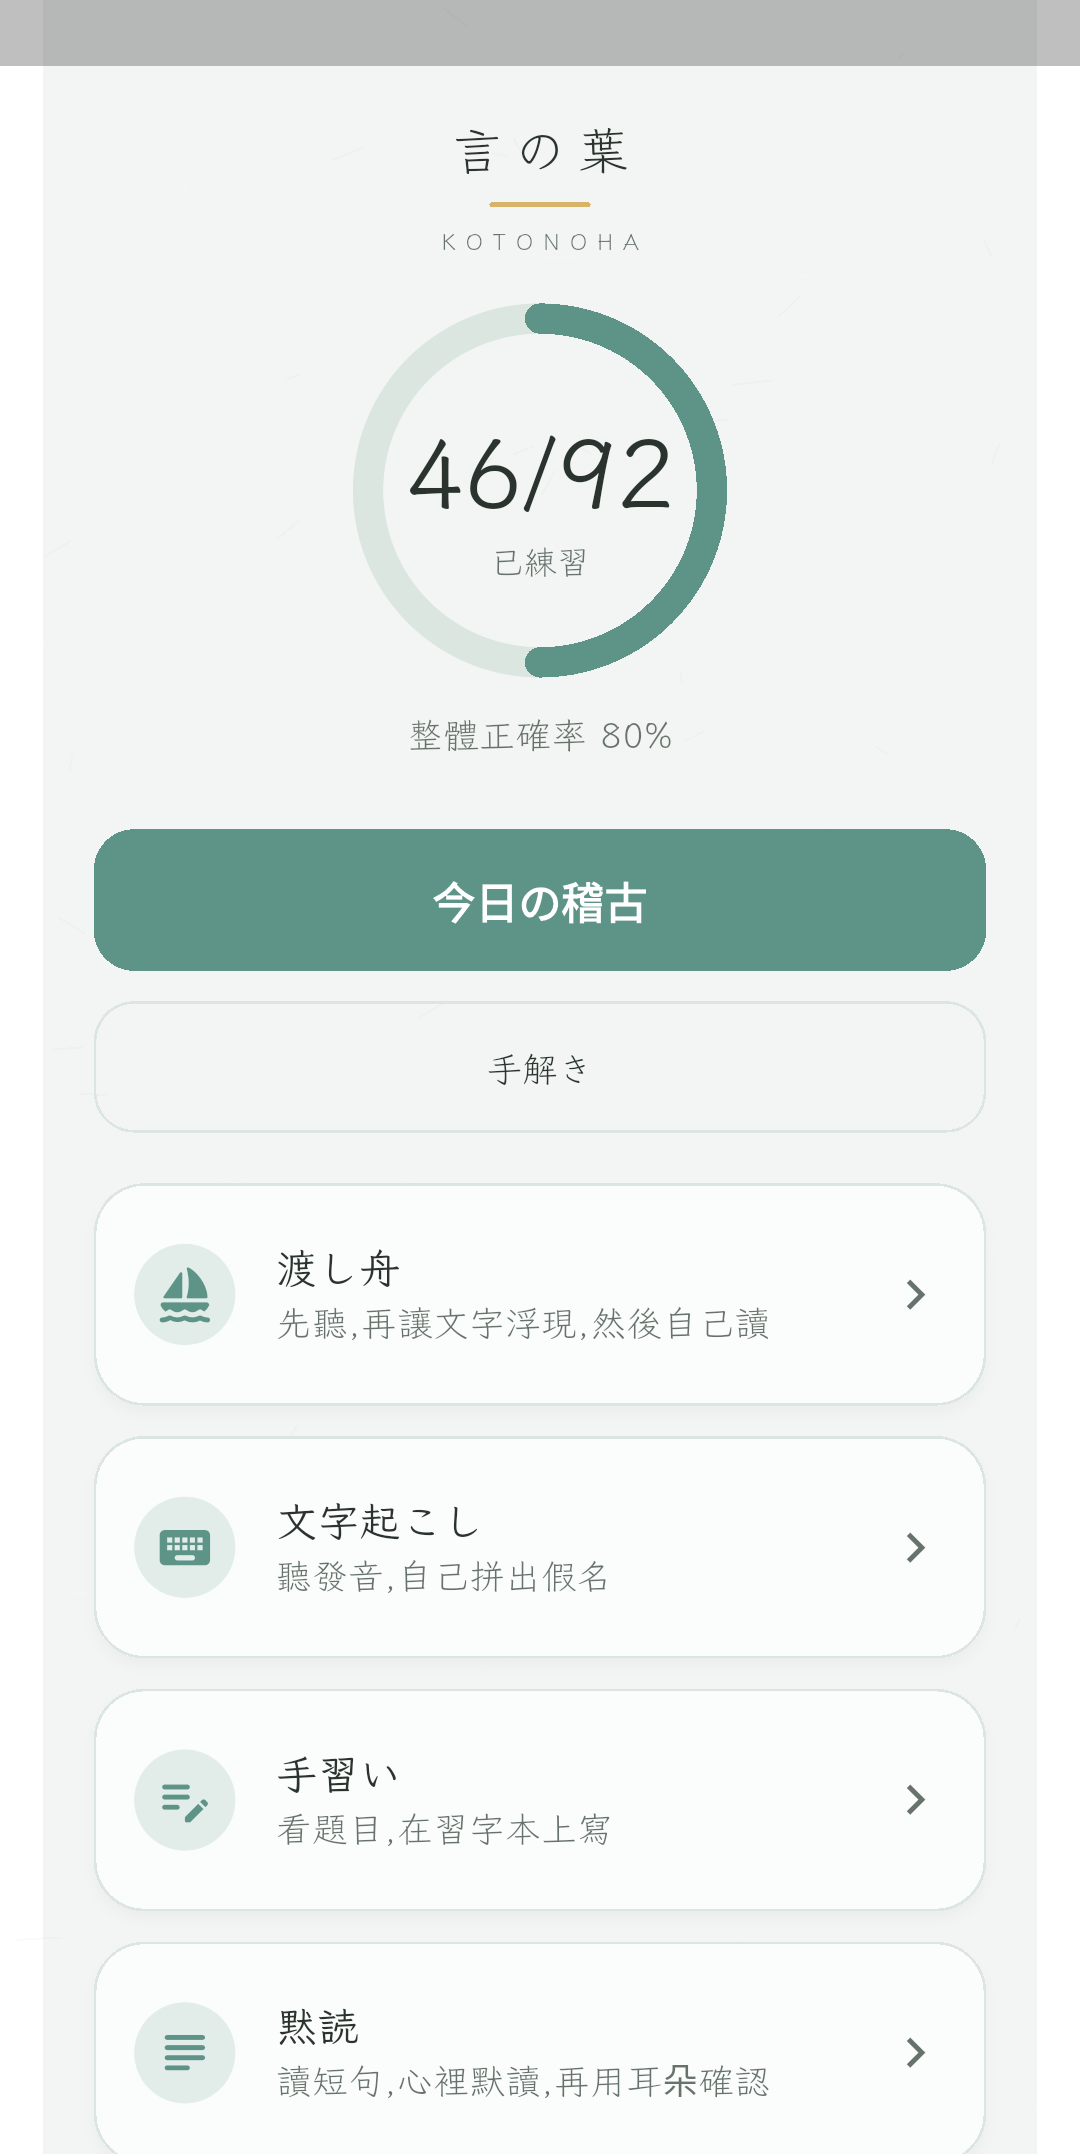
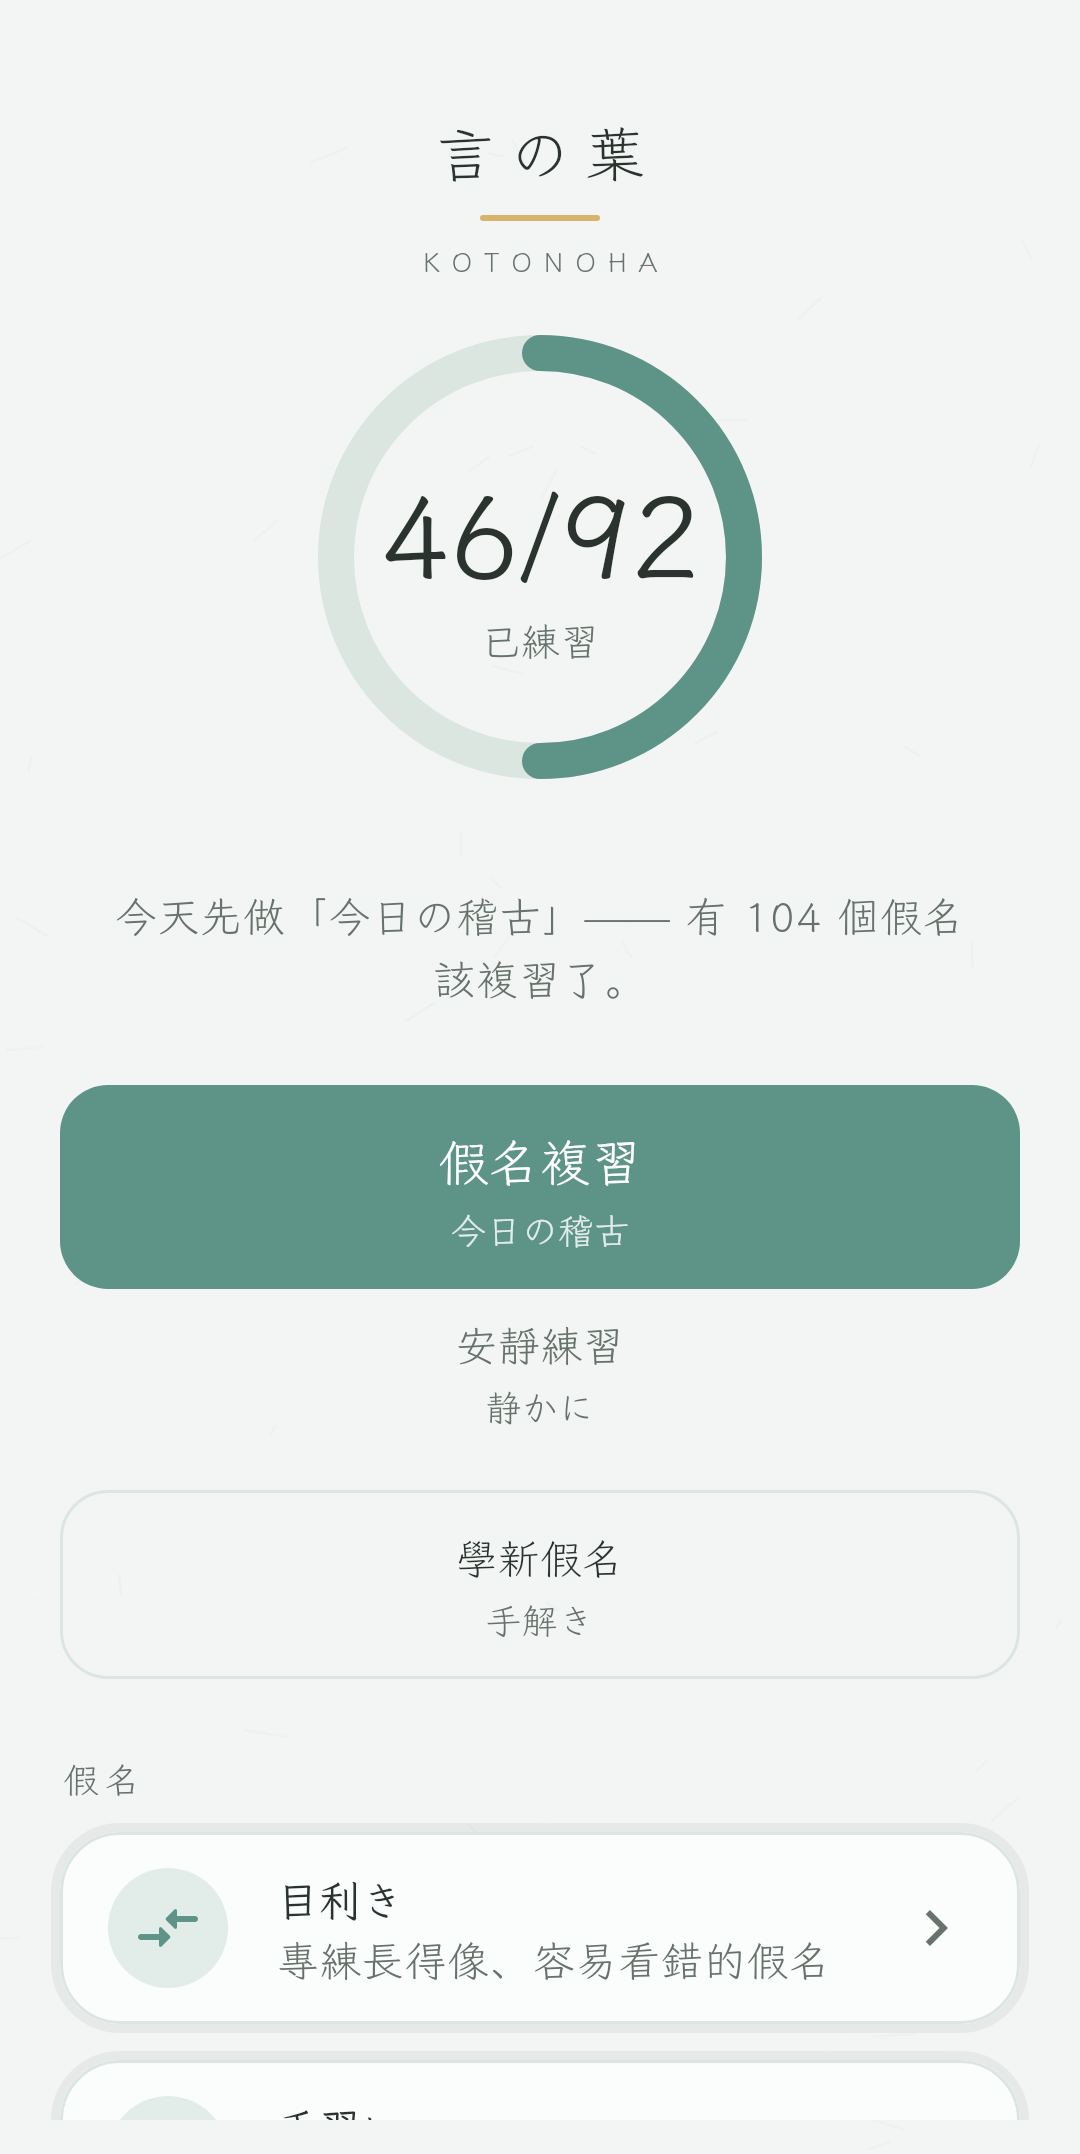
docs: 更新過期截圖並重寫三語產品介紹 (#51)
以 main fe74958 的真實畫面重截四張代表圖（首頁、聞き取り、漢字の声、歩み），
補上已上線的先聽再揭曉，並避免保證每日複習必有一詞一句。

diff --git a/README.JP.md b/README.JP.md
@@ -1,4 +1,4 @@
-<div align="center" style="text-align: center">
+<div align="center">
   <img src="assets/icon/app_icon.png" width="104" alt="言の葉" />
 </div>
 
@@ -7,41 +7,49 @@
 [English](README.md) · [繁體中文](README.zh-TW.md) · **日本語**
 
 繁体字中国語の読者のための、日本語の読みを練習するアプリです。
-ひらがな・カタカナに慣れるところから、単語、短い文、漢字の読みへ進みます。
-一回の練習は短く、画面は静かに。点数や連続記録、報酬を追いかける仕組みはありません。
+ひらがな・カタカナに慣れるところから、単語、短い文、先に聴いてから明かす聞き取り、
+そして語句の中の漢字の読みへ進みます。一回の練習は短く、画面は静かに。
+点数や連続記録、報酬を追いかける仕組みはありません。
 
-## 練習できること
+## だれのためのものか
 
-- **手解き — かなを学ぶ。** 濁音・半濁音・拗音を含む、ひらがな・カタカナの208の学習項目を一行ずつ。
-- **今日の稽古 — かなを復習する。** 学習記録に応じて、すでに出会ったかなを練習します。慣れたかなは選択肢を離れ、読みを思い出してから、すでに出会った語と読める短い文へ進みます。新しいかなは手解きで学びます。
-- **目利き — 似たかなを見分ける。** シ／ツ、ね／れ／わなど、取り違えやすい字形を練習します。
-- **手習い — 紙に書いて思い出す。** お題に沿って自分のノートにかなを書き、答えを表示して確かめます。
-- **五十音図 — かなを調べる。** 一覧からかなを探し、読みと音声を確認します。
-- **渡し舟 — 単語に出会う。** まず音を聴き、かなを表示して、自分でも読みます。
-- **文字起こし — 単語を書き取る。** 聴いた単語をかなのタイルで組み立てます。
-- **黙読 — 短い文を読む。** 先に自分で読み、そのあと読み方と意味を確認します。
-- **漢字の声 — 漢字の読みを練習する。** アプリの単語や文に出てくる漢字の読みを学び、思い出します。
-- **名残の仮名 — 漢字かな交じり文を読む。** 対応する読みが身につくにつれて、ふりがなが薄くなります。
-- **歩み — 学習の様子を見る。** 出会ったかなの範囲と現在の状態を確認します。練習記録が十分に集まると、繰り返している字形の取り違えも表示します。
+繁体字中国語は読める。日本語の文字を、少しずつ読めるようにしたい。
+文法の講義ではなく、点数表でもなく、有料教材の全文や人の声の録音を
+そのまま入れるアプリでもありません。
 
-## 音声と端末内のデータ
+## 練習の進み方
 
-発音には端末の日本語読み上げ（TTS）エンジンを使います。利用できる音声や
-オフラインでの再生は、インストール済みの音声によって異なります。
+手解きは、かなを一行ずつ紹介します。今日の稽古は、すでに出会ったかなを復習します。
+慣れたかなは選択肢を離れ、読みを思い出します。そのかなを使う、すでに出会った語や
+読める短い文があれば、短い橋渡しが続くことがあります。毎回あるとは限りません。
+使える語句がなければ、その回はかなのまま終わります。
 
-学習の進捗と練習記録は端末に保存します。アカウントは不要で、広告もありません。
+かなが語になるところまで来ると、渡し舟は耳から単語を紹介し、文字起こしは
+自分で組み立て、**聞き取り**（先に聴いてから明かす）はすでに出会った駅の言葉を
+流し、文字は隠し、明かしてからもう一度聴きます。漢字の声は、アプリの語句の中で
+読みを教え、思い出します。一字ずつ切り離したカードではありません。
+似た字形、紙に書く、五十音図、短い文、漢字かな交じり文の部屋は、
+使えるようになったときに開きます。歩みは、出会った範囲の地図であり、成績表ではありません。
 
-## 対応プラットフォーム
+発音には端末の日本語読み上げ（TTS）を使います。使える声やオフライン再生は、
+入っている音声によって違います。進捗は端末に残します。アカウントは不要で、広告もありません。
+
+<p align="center">
+  <img src="screenshots/01-home.png" width="280" alt="ホーム：見本の進捗と現在の入口">
+  <img src="screenshots/02-listening.png" width="280" alt="聞き取り：先に聴いてから明かす">
+</p>
+<p align="center">
+  ホーム · 見本の進捗&emsp;·&emsp;聞き取り — 先に聴き、それから明かす
+</p>
+<p align="center">
+  <img src="screenshots/03-kanji.png" width="280" alt="漢字の声：文の中で読みを教える">
+  <img src="screenshots/04-progress.png" width="280" alt="歩み：見本の接触範囲">
+</p>
+<p align="center">
+  漢字の声 — 語句の中の読み&emsp;·&emsp;歩み — 範囲であり、点数ではない
+</p>
 
 Flutter 製。Android と iOS に対応しています。
-
-## スクリーンショット
-
-|            言の葉(ホーム)            |                今日の稽古                 |                      渡し舟                      |                 文字起こし                  |
-| :----------------------------------: | :---------------------------------------: | :----------------------------------------------: | :-----------------------------------------: |
-|  ![ホーム](screenshots/01-home.png)  | ![今日の稽古](screenshots/02-session.png) |       ![渡し舟](screenshots/08-ferry.png)        | ![文字起こし](screenshots/03-dictation.png) |
-|               **黙読**               |               **漢字の声**                |                  **名残の仮名**                  |                  **歩み**                   |
-| ![黙読](screenshots/06-sentence.png) |   ![漢字の声](screenshots/05-kanji.png)   | ![名残の仮名](screenshots/07-kanji-sentence.png) |    ![歩み](screenshots/04-progress.png)     |
 
 ## ライセンス
 

diff --git a/README.md b/README.md
@@ -1,4 +1,4 @@
-<div align="center" style="text-align: center">
+<div align="center">
   <img src="assets/icon/app_icon.png" width="104" alt="言の葉" />
 </div>
 
@@ -6,51 +6,53 @@
 
 **English** · [繁體中文](README.zh-TW.md) · [日本語](README.JP.md)
 
-A Japanese reading practice app for Traditional Chinese readers. Build familiarity
-with hiragana and katakana, then practise words, short sentences, and kanji readings.
-Short sessions, a quiet interface, and no scores, streaks, or rewards to chase.
+A Japanese reading practice app for Traditional Chinese readers. Meet hiragana
+and katakana first, then step into words, short sentences, listen-first
+practice, and kanji readings. Sessions stay short. The interface stays quiet.
+There are no scores, streaks, or rewards to chase.
 
-## Practice
+## Who it is for
 
-- **手解き — Learn kana.** Meet 208 hiragana and katakana learning units, including
-  voiced sounds, semi-voiced sounds, and contracted sounds, one row at a time.
-- **今日の稽古 — Review kana.** Practise kana already introduced, with questions
-  selected from your learning history. Familiar kana leave multiple-choice
-  and ask for an unprompted reading, then a word and a short sentence you
-  can already decode. Learn new kana in 手解き.
-- **目利き — Distinguish similar kana.** Practise look-alikes such as シ／ツ and
-  ね／れ／わ.
-- **手習い — Recall on paper.** Write the prompted kana in your notebook, reveal
-  the answer, and check it yourself.
-- **五十音図 — Browse kana.** Look up kana and listen to their pronunciation.
-- **渡し舟 — Meet words.** Hear a word, reveal its kana, and read it back.
-- **文字起こし — Word dictation.** Listen and assemble the word from kana tiles.
-- **黙読 — Read short phrases.** Read first, then reveal the reading and meaning.
-- **漢字の声 — Practise kanji readings.** Learn and recall readings drawn from the
-  app's words and sentences.
-- **名残の仮名 — Read kanji sentences.** Practise mixed-script sentences, with
-  furigana that fades as the associated readings become familiar.
-- **歩み — View progress.** See kana coverage, current learning status, and recurring
-  kana mix-ups when enough practice evidence is available.
+If you already read Traditional Chinese and want Japanese writing to become
+readable — not a grammar course, not a scoreboard, and not a content library
+of paid textbooks or human recordings.
 
-## Audio and local data
+## How practice unfolds
 
-Pronunciation uses the device's Japanese text-to-speech (TTS) engine. Voice
-availability and offline playback depend on the installed voices.
+手解き introduces kana a row at a time. 今日の稽古 reviews kana you have
+already met: familiar ones leave multiple choice and ask for an unprompted
+reading. When a word or sentence that reuses those kana is available, a short
+transfer item may follow. It is not promised every time — if nothing readable
+is ready, the review stays with kana.
 
-Progress and practice logs are stored on the device. No account or ads.
+Once those kana can spell a word, 渡し舟 introduces it by ear, 文字起こし
+asks you to assemble it, and **聞き取り** (先聽再揭曉) plays a station phrase
+you have already met, hides the text, then lets you reveal and hear it again.
+漢字の声 teaches and recalls readings inside the app's own words and
+sentences, not as isolated characters. Other rooms — look-alike kana, paper
+recall, a kana chart, short phrases, mixed-script sentences — open when you
+can use them. 歩み is a map of coverage, not a grade.
 
-## Platforms
+Pronunciation uses the device's Japanese text-to-speech engine. Which voices
+exist, and whether they work offline, depends on what is installed. Progress
+stays on the device. No account, no ads.
+
+<p align="center">
+  <img src="screenshots/01-home.png" width="280" alt="Home with sample coverage and current action names">
+  <img src="screenshots/02-listening.png" width="280" alt="聞き取り: listen first, then reveal">
+</p>
+<p align="center">
+  Home · sample progress&emsp;·&emsp;聞き取り — listen, then reveal
+</p>
+<p align="center">
+  <img src="screenshots/03-kanji.png" width="280" alt="漢字の声 teaching a reading inside a sentence">
+  <img src="screenshots/04-progress.png" width="280" alt="歩み coverage map with sample progress">
+</p>
+<p align="center">
+  漢字の声 — a reading in its sentence&emsp;·&emsp;歩み — coverage, not a score
+</p>
 
 Built with Flutter for Android and iOS.
-
-## Screenshots
-
-|              言の葉 (home)               |               今日の稽古 (today)               |                  渡し舟 (the Ferry)                  |           文字起こし (dictation)           |
-| :--------------------------------------: | :--------------------------------------------: | :--------------------------------------------------: | :----------------------------------------: |
-|     ![Home](screenshots/01-home.png)     | ![Today's session](screenshots/02-session.png) |          ![Ferry](screenshots/08-ferry.png)          | ![Dictation](screenshots/03-dictation.png) |
-|           **黙読 (sentences)**           |              **漢字の声 (kanji)**              |           **名残の仮名 (kanji sentences)**           |            **歩み (progress)**             |
-| ![Sentence](screenshots/06-sentence.png) |       ![Kanji](screenshots/05-kanji.png)       | ![Kanji sentence](screenshots/07-kanji-sentence.png) |  ![Progress](screenshots/04-progress.png)  |
 
 ## License
 

diff --git a/README.zh-TW.md b/README.zh-TW.md
@@ -1,4 +1,4 @@
-<div align="center" style="text-align: center">
+<div align="center">
   <img src="assets/icon/app_icon.png" width="104" alt="言の葉" />
 </div>
 
@@ -6,40 +6,46 @@
 
 [English](README.md) · **繁體中文** · [日本語](README.JP.md)
 
-為繁體中文讀者設計的日語閱讀練習 app。從熟悉平假名、片假名開始，
-逐步練習單字、短句與漢字讀音。每回練習簡短，介面安靜，不追逐分數、連續天數或獎勵。
+為繁體中文讀者設計的日語閱讀練習 app。先熟悉平假名、片假名，再走進單字、短句、
+先聽再揭曉的聽力，以及詞句中的漢字讀音。每回練習簡短，介面安靜，
+不追逐分數、連續天數或獎勵。
 
-## 練習功能
+## 適合誰
 
-- **手解き — 學新假名。** 逐行認識 208 個平假名與片假名學習項目，包含濁音、半濁音與拗音。
-- **今日の稽古 — 假名複習。** 根據學習紀錄選題，練習已接觸的假名。熟悉的假名會離開選擇題，改成無提示回想，再讀一個已見過的詞和一句讀得動的短句。新假名從手解き學起。
-- **目利き — 辨別相似假名。** 練習シ／ツ、ね／れ／わ等容易混淆的字形。
-- **手習い — 紙上默寫。** 依提示在自己的筆記本寫出假名，再揭曉答案並自行核對。
-- **五十音図 — 查假名。** 瀏覽假名，查閱與聆聽讀音。
-- **渡し舟 — 學單字。** 先聽單字，再揭曉假名並試著讀出來。
-- **文字起こし — 聽寫單字。** 聽音後用假名磚拼出單字。
-- **黙読 — 讀短句。** 先自行閱讀，再揭曉讀音與意思。
-- **漢字の声 — 練漢字讀音。** 學習並回想 app 詞句中的漢字讀音。
-- **名残の仮名 — 漢字句閱讀。** 練習漢字與假名混寫的句子；隨對應讀音逐漸熟悉，假名標音會淡出。
-- **歩み — 看學習狀況。** 查看接觸過的假名範圍、目前狀態，以及累積足夠練習紀錄後觀察到的字形混淆。
+已經能讀繁體中文，希望日語文字慢慢變得讀得動 —— 不是文法課、不是計分板，
+也不附帶付費教材全文或真人錄音。
 
-## 發音與本機資料
+## 練習怎麼走
 
-發音使用裝置的日語文字轉語音（TTS）引擎；語音可用性與離線播放取決於已安裝的語音。
+手解き一行一行帶你認假名。今日の稽古複習已經見過的假名：熟悉的會離開選擇題，
+改成無提示回想。若有重用這些假名、且已經見過的詞或讀得動的短句，可能再接一題
+轉移練習；並非每回都有。沒有可用的詞句時，這一回就停在假名。
 
-學習進度與練習紀錄儲存在裝置上，無須帳號，也沒有廣告。
+假名拼得出詞之後，渡し舟用耳朵介紹單字，文字起こし請你自己拼出來，
+**聞き取り**（先聽再揭曉）則播放已見過的車站用語，先藏起文字，再讓你揭曉、重聽。
+漢字の声在 app 自己的詞句裡教讀音、再回想，不是逐字抽離的單字卡。
+其他房間 —— 相似字形、紙上默寫、五十音圖、短句、漢字句 —— 等你用得上才開。
+歩み是接觸範圍的地圖，不是成績單。
 
-## 平台
+發音使用裝置的日語文字轉語音引擎；有沒有聲音、能不能離線，取決於已安裝的語音。
+進度存在本機。無須帳號，也沒有廣告。
+
+<p align="center">
+  <img src="screenshots/01-home.png" width="280" alt="首頁：示例進度與目前的動作名稱">
+  <img src="screenshots/02-listening.png" width="280" alt="聞き取り：先聽再揭曉">
+</p>
+<p align="center">
+  首頁 · 示例進度&emsp;·&emsp;聞き取り — 先聽，再揭曉
+</p>
+<p align="center">
+  <img src="screenshots/03-kanji.png" width="280" alt="漢字の声：在句子裡教讀音">
+  <img src="screenshots/04-progress.png" width="280" alt="歩み：示例接觸範圍">
+</p>
+<p align="center">
+  漢字の声 — 詞句中的讀音&emsp;·&emsp;歩み — 接觸範圍，不是分數
+</p>
 
 以 Flutter 打造，支援 Android 與 iOS。
-
-## 畫面截圖
-
-|             言の葉(首頁)             |             今日の稽古(每日)              |                   渡し舟(擺渡)                   |              文字起こし(聽寫)               |
-| :----------------------------------: | :---------------------------------------: | :----------------------------------------------: | :-----------------------------------------: |
-|   ![首頁](screenshots/01-home.png)   | ![今日の稽古](screenshots/02-session.png) |       ![渡し舟](screenshots/08-ferry.png)        | ![文字起こし](screenshots/03-dictation.png) |
-|            **黙読(讀句)**            |           **漢字の声(漢字音)**            |              **名残の仮名(漢字句)**              |               **歩み(進度)**                |
-| ![黙読](screenshots/06-sentence.png) |   ![漢字の声](screenshots/05-kanji.png)   | ![名残の仮名](screenshots/07-kanji-sentence.png) |    ![歩み](screenshots/04-progress.png)     |
 
 ## 授權
 

diff --git a/screenshots/README.md b/screenshots/README.md
@@ -1,23 +1,12 @@
 # Screenshots
 
-The README files reference these images. They're produced by the capture
-harness, which seeds progress so every track is populated:
-
-```sh
-flutter drive --driver=test_driver/screenshot.dart \
-  --target=integration_test/screenshot_capture.dart -d emulator-5554
-```
+README files use these four frames, all 1080×2154, captured from the live
+widgets at `fe74958b029f128ad4ffef9d316aa8c6ebafa07b` with marked sample
+progress (not a learner record):
 
 | File | Screen |
 |---|---|
-| `01-home.png` | Home — 言の葉 wordmark, progress ring, 今日の稽古 |
-| `02-session.png` | A question inside 今日の稽古 (the adaptive session) |
-| `03-dictation.png` | 文字起こし — assemble the heard word from kana tiles |
-| `04-progress.png` | 歩み — coverage + per-kana status |
-| `05-kanji.png` | 漢字の声 — a kanji reading revealed |
-| `06-sentence.png` | 黙読 — a short phrase revealed |
-| `07-kanji-sentence.png` | 名残の仮名 — a kanji sentence with fading furigana |
-| `08-ferry.png` | 渡し舟 — the kana inked in over the audio |
-
-The bundled Klee One font renders the kana, so the emulator capture above is
-fine. Keep them portrait and phone-sized; GitHub scales them in the table.
+| `01-home.png` | Home — coverage ring, current action names |
+| `02-listening.png` | 聞き取り — listen first, text still hidden |
+| `03-kanji.png` | 漢字の声 — a reading taught in its sentence |
+| `04-progress.png` | 歩み — coverage and status, no accuracy score |
